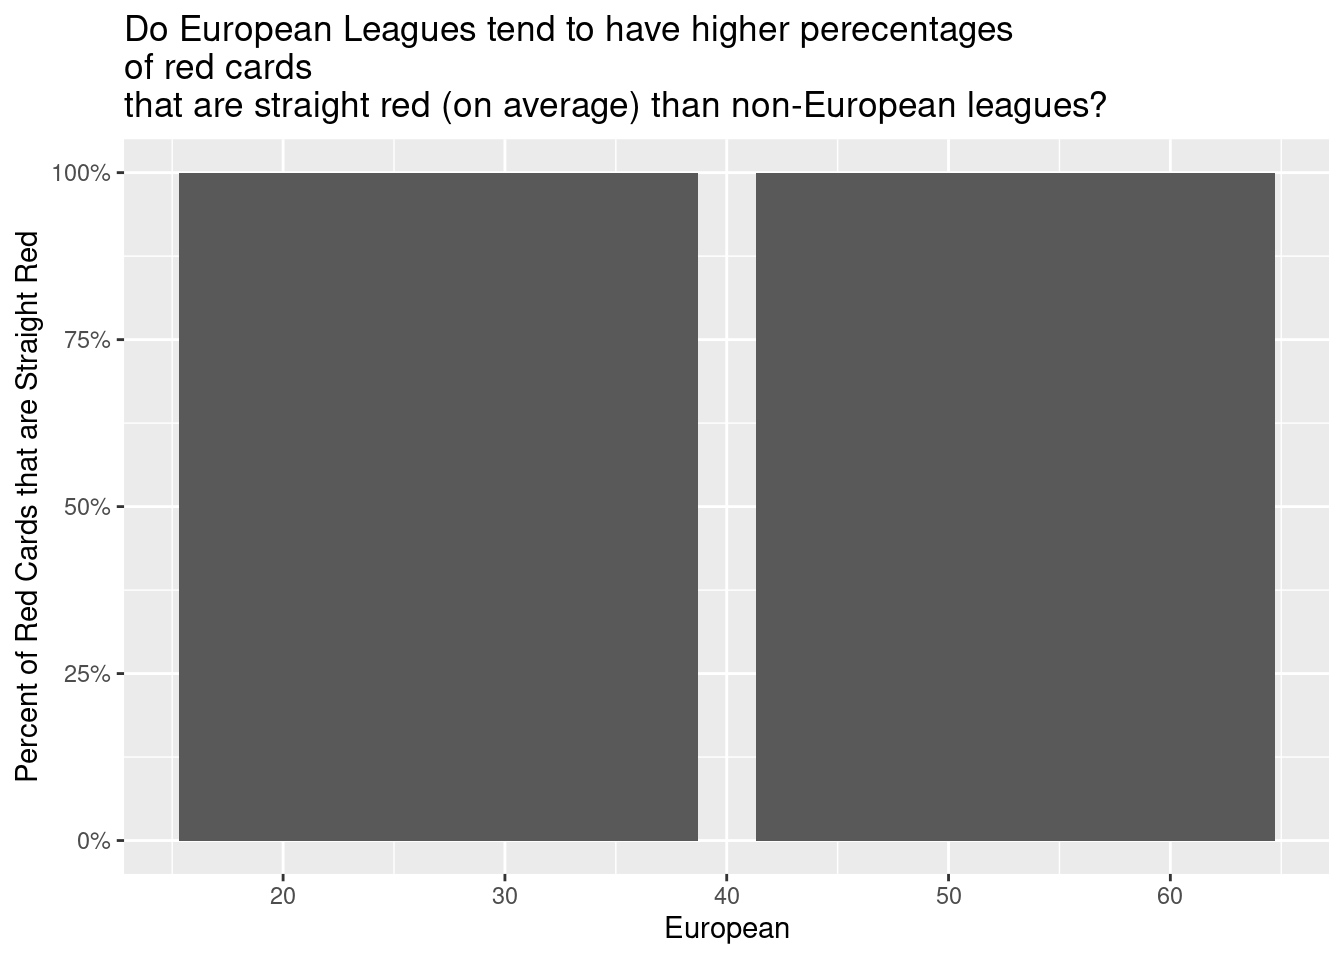
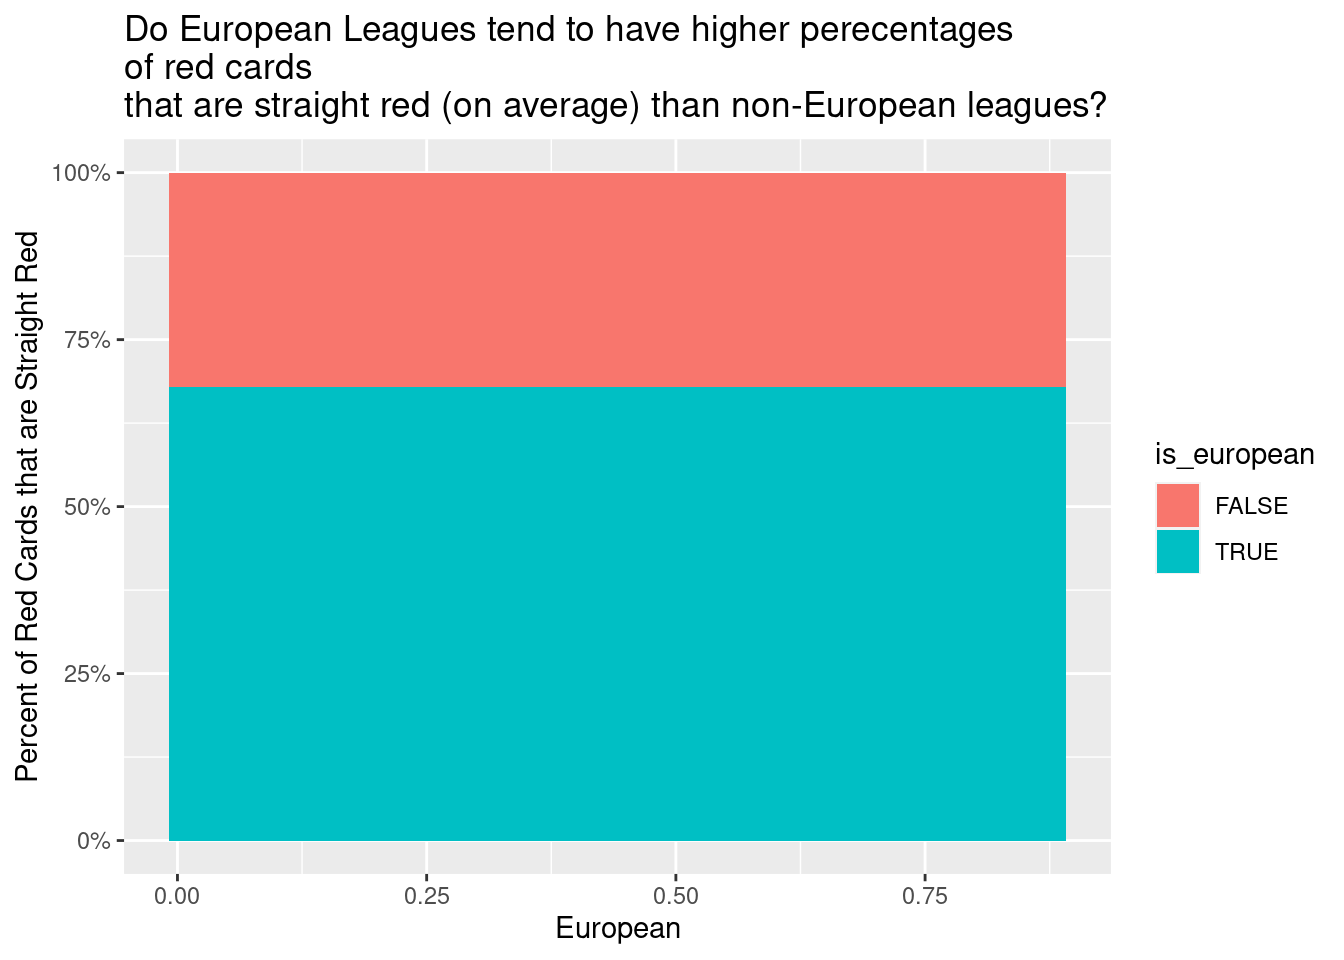
Fixed stacked bar chart and ran log reg on analysis 2.

diff --git a/docs/report.html b/docs/report.html
@@ -186,83 +186,7 @@ ul.task-list li input[type="checkbox"] {
 
 </div>
 <div class="cell">
-<div class="cell-output cell-output-stdout">
-<pre><code># A tibble: 560 × 51
-   team_id team_name  team_logo league_id league_name league_country league_logo
-     &lt;dbl&gt; &lt;chr&gt;      &lt;chr&gt;         &lt;dbl&gt; &lt;chr&gt;       &lt;chr&gt;          &lt;chr&gt;      
- 1      47 Tottenham  https://…        39 Premier Le… England        https://me…
- 2      40 Liverpool  https://…        39 Premier Le… England        https://me…
- 3      33 Mancheste… https://…        39 Premier Le… England        https://me…
- 4      47 Tottenham  https://…        39 Premier Le… England        https://me…
- 5      40 Liverpool  https://…        39 Premier Le… England        https://me…
- 6      50 Mancheste… https://…        39 Premier Le… England        https://me…
- 7      40 Liverpool  https://…        39 Premier Le… England        https://me…
- 8      46 Leicester  https://…        39 Premier Le… England        https://me…
- 9      52 Crystal P… https://…        39 Premier Le… England        https://me…
-10      50 Mancheste… https://…        39 Premier Le… England        https://me…
-# ℹ 550 more rows
-# ℹ 44 more variables: league_flag &lt;chr&gt;, games_appearences &lt;dbl&gt;,
-#   games_lineups &lt;dbl&gt;, games_minutes &lt;dbl&gt;, games_position &lt;chr&gt;,
-#   games_rating &lt;dbl&gt;, games_captain &lt;lgl&gt;, substitutes_in &lt;dbl&gt;,
-#   substitutes_out &lt;dbl&gt;, substitutes_bench &lt;dbl&gt;, shots_total &lt;dbl&gt;,
-#   shots_on &lt;dbl&gt;, goals_total &lt;dbl&gt;, goals_conceded &lt;dbl&gt;,
-#   goals_assists &lt;dbl&gt;, passes_total &lt;dbl&gt;, passes_key &lt;dbl&gt;, …</code></pre>
-</div>
-<div class="cell-output cell-output-stdout">
-<pre><code>Rows: 560
-Columns: 51
-$ team_id               &lt;dbl&gt; 47, 40, 33, 47, 40, 50, 40, 46, 52, 50, 48, 46, …
-$ team_name             &lt;chr&gt; "Tottenham", "Liverpool", "Manchester United", "…
-$ team_logo             &lt;chr&gt; "https://media-2.api-sports.io/football/teams/47…
-$ league_id             &lt;dbl&gt; 39, 39, 39, 39, 39, 39, 39, 39, 39, 39, 39, 39, …
-$ league_name           &lt;chr&gt; "Premier League", "Premier League", "Premier Lea…
-$ league_country        &lt;chr&gt; "England", "England", "England", "England", "Eng…
-$ league_logo           &lt;chr&gt; "https://media-2.api-sports.io/football/leagues/…
-$ league_flag           &lt;chr&gt; "https://media-2.api-sports.io/flags/gb.svg", "h…
-$ games_appearences     &lt;dbl&gt; 35, 35, 30, 37, 34, 30, 35, 25, 33, 30, 36, 35, …
-$ games_lineups         &lt;dbl&gt; 35, 30, 27, 36, 32, 25, 27, 20, 31, 23, 34, 28, …
-$ games_minutes         &lt;dbl&gt; 3021, 2762, 2459, 3232, 2825, 2205, 2373, 1806, …
-$ games_position        &lt;chr&gt; "Attacker", "Attacker", "Attacker", "Attacker", …
-$ games_rating          &lt;dbl&gt; 7.505714, 7.391428, 7.260000, 7.378378, 7.202941…
-$ games_captain         &lt;lgl&gt; FALSE, FALSE, FALSE, FALSE, FALSE, FALSE, FALSE,…
-$ substitutes_in        &lt;dbl&gt; 0, 5, 3, 1, 2, 5, 8, 5, 2, 7, 2, 7, 1, 5, 2, 2, …
-$ substitutes_out       &lt;dbl&gt; 15, 5, 6, 1, 7, 9, 17, 5, 2, 6, 12, 14, 0, 7, 5,…
-$ substitutes_bench     &lt;dbl&gt; 0, 5, 3, 1, 2, 8, 9, 7, 2, 14, 2, 7, 1, 8, 2, 2,…
-$ shots_total           &lt;dbl&gt; 69, 101, 80, 97, 66, 56, 71, 47, 51, 46, 56, 54,…
-$ shots_on              &lt;dbl&gt; 49, 60, 43, 55, 39, 31, 33, 26, 32, 28, 34, 34, …
-$ goals_total           &lt;dbl&gt; 23, 23, 18, 17, 16, 15, 15, 15, 14, 13, 12, 12, …
-$ goals_conceded        &lt;dbl&gt; 0, 0, 0, 0, 0, 0, 0, 0, 0, 0, 0, 0, 0, 0, 0, 0, …
-$ goals_assists         &lt;dbl&gt; 7, 13, 3, 9, 2, 8, 4, 2, 1, 5, 10, 8, 5, 10, 2, …
-$ passes_total          &lt;dbl&gt; 1015, 1079, 879, 874, 1036, 1358, 744, 251, 909,…
-$ passes_key            &lt;dbl&gt; 73, 64, 26, 53, 43, 87, 41, 18, 47, 42, 42, 49, …
-$ passes_accuracy       &lt;dbl&gt; 25, 24, 24, 16, 23, 37, 15, 7, 22, 23, 15, 22, 1…
-$ tackles_total         &lt;dbl&gt; 15, 17, 8, 15, 33, 32, 39, 6, 40, 23, 36, 40, 33…
-$ tackles_blocks        &lt;dbl&gt; 6, 1, NA, 8, 1, 2, 2, NA, NA, NA, 2, 3, 2, 1, 3,…
-$ tackles_interceptions &lt;dbl&gt; 13, 6, 2, 3, 8, 6, 6, 1, 5, 12, 21, 11, 14, 13, …
-$ duels_total           &lt;dbl&gt; 270, 309, 217, 437, 361, 209, 384, 141, 506, 278…
-$ duels_won             &lt;dbl&gt; 118, 100, 88, 198, 160, 101, 143, 51, 228, 117, …
-$ dribbles_attempts     &lt;dbl&gt; 92, 124, 32, 100, 77, 55, 69, 22, 152, 112, 88, …
-$ dribbles_success      &lt;dbl&gt; 51, 53, 20, 54, 47, 31, 27, 9, 75, 53, 50, 31, 2…
-$ fouls_drawn           &lt;dbl&gt; 36, 23, 18, 54, 50, 27, 40, 12, 101, 37, 43, 64,…
-$ fouls_committed       &lt;dbl&gt; 14, 12, 16, 42, 50, 21, 41, 13, 37, 19, 25, 22, …
-$ cards_yellow          &lt;dbl&gt; 2, 1, 8, 5, 5, 2, 3, 2, 5, 1, 6, 3, 8, 4, 7, 6, …
-$ cards_yellowred       &lt;dbl&gt; 0, 0, 0, 0, 0, 0, 0, 0, 1, 0, 0, 0, 0, 0, 0, 0, …
-$ cards_red             &lt;dbl&gt; 0, 0, 0, 0, 0, 0, 0, 0, 0, 0, 0, 0, 0, 0, 0, 0, …
-$ penalty_scored        &lt;dbl&gt; 0, 5, 3, 4, 0, 0, 0, 0, 5, 2, 0, 0, 5, 1, 1, 2, …
-$ penalty_missed        &lt;dbl&gt; 0, 1, 0, 0, 0, 0, 0, 0, 2, 1, 0, 0, 0, 0, 0, 0, …
-$ player_name           &lt;chr&gt; "Son Heung-Min", "Mohamed Salah", "Cristiano Ron…
-$ player_lastname       &lt;chr&gt; "Son", "Salah Hamed Mahrous Ghaly", "dos Santos …
-$ player_age            &lt;dbl&gt; 31, 31, 38, 30, 31, 32, 27, 36, 31, 29, 27, 27, …
-$ player_nationality    &lt;chr&gt; "Korea Republic", "Egypt", "Portugal", "England"…
-$ player_injured        &lt;lgl&gt; FALSE, FALSE, FALSE, FALSE, FALSE, FALSE, FALSE,…
-$ player_photo          &lt;chr&gt; "https://media-1.api-sports.io/football/players/…
-$ player_birth_date     &lt;date&gt; 1992-07-08, 1992-06-15, 1985-02-05, 1993-07-28,…
-$ player_birth_place    &lt;chr&gt; "Chuncheon", "Muḥāfaẓat al Gharbiyya", "Funchal"…
-$ player_birth_country  &lt;chr&gt; "Korea Republic", "Egypt", "Portugal", "England"…
-$ id                    &lt;dbl&gt; 1, 2, 3, 4, 5, 6, 7, 8, 9, 10, 11, 12, 13, 14, 1…
-$ player_height_cm      &lt;dbl&gt; 184, 175, 187, 188, 175, 181, 178, 179, 180, 172…
-$ player_weight_kg      &lt;dbl&gt; 77, 71, 83, 86, 69, 68, 68, 74, 66, 69, 70, 73, …</code></pre>
-</div>
+
 </div>
 <section id="analysis-1-what-factors-influence-booking-frequency-of-players" class="level4">
 <h4 class="anchored" data-anchor-id="analysis-1-what-factors-influence-booking-frequency-of-players">Analysis #1: What factors influence booking frequency of players?</h4>
@@ -320,24 +244,6 @@ $ player_weight_kg      &lt;dbl&gt; 77, 71, 83, 86, 69, 68, 68, 74, 66, 69, 70, 
 <p>Question: Are some leagues more aggressive, on average, than others?</p>
 <p>Pre-registered hypothesis: European leagues are, on average, more aggressive than non-European leagues (i.e.&nbsp;more fouls, more goals per minute, and more duels.)</p>
 <div class="cell">
-<div class="cell-output cell-output-stdout">
-<pre><code># A tibble: 13 × 2
-   league_country     n
-   &lt;chr&gt;          &lt;int&gt;
- 1 Argentina         40
- 2 Belgium           40
- 3 Brazil            80
- 4 England           60
- 5 France            40
- 6 Germany           60
- 7 Italy             60
- 8 Mexico            20
- 9 Netherlands       40
-10 Portugal          40
-11 Saudi-Arabia      20
-12 Spain             40
-13 USA               20</code></pre>
-</div>
 <div class="cell-output-display">
 <p><img src="report_files/figure-html/analysis-plots-2-1.png" class="img-fluid" width="672"></p>
 </div>
@@ -352,6 +258,18 @@ $ player_weight_kg      &lt;dbl&gt; 77, 71, 83, 86, 69, 68, 68, 74, 66, 69, 70, 
 </div>
 <div class="cell-output-display">
 <p><img src="report_files/figure-html/analysis-plots-2-5.png" class="img-fluid" width="672"></p>
+</div>
+</div>
+<div class="cell">
+<div class="cell-output cell-output-stdout">
+<pre><code># A tibble: 5 × 5
+  term                 estimate std.error statistic     p.value
+  &lt;chr&gt;                   &lt;dbl&gt;     &lt;dbl&gt;     &lt;dbl&gt;       &lt;dbl&gt;
+1 (Intercept)          -1.98      0.489      -4.04  0.0000528  
+2 avg_penalty_by_game  -2.76      1.51       -1.82  0.0686     
+3 avg_goals_per_min   305.       65.9         4.62  0.00000387 
+4 avg_shots_per_game   -0.196     0.210      -0.932 0.351      
+5 duels_total           0.00564   0.00106     5.29  0.000000120</code></pre>
 </div>
 </div>
 </section>
